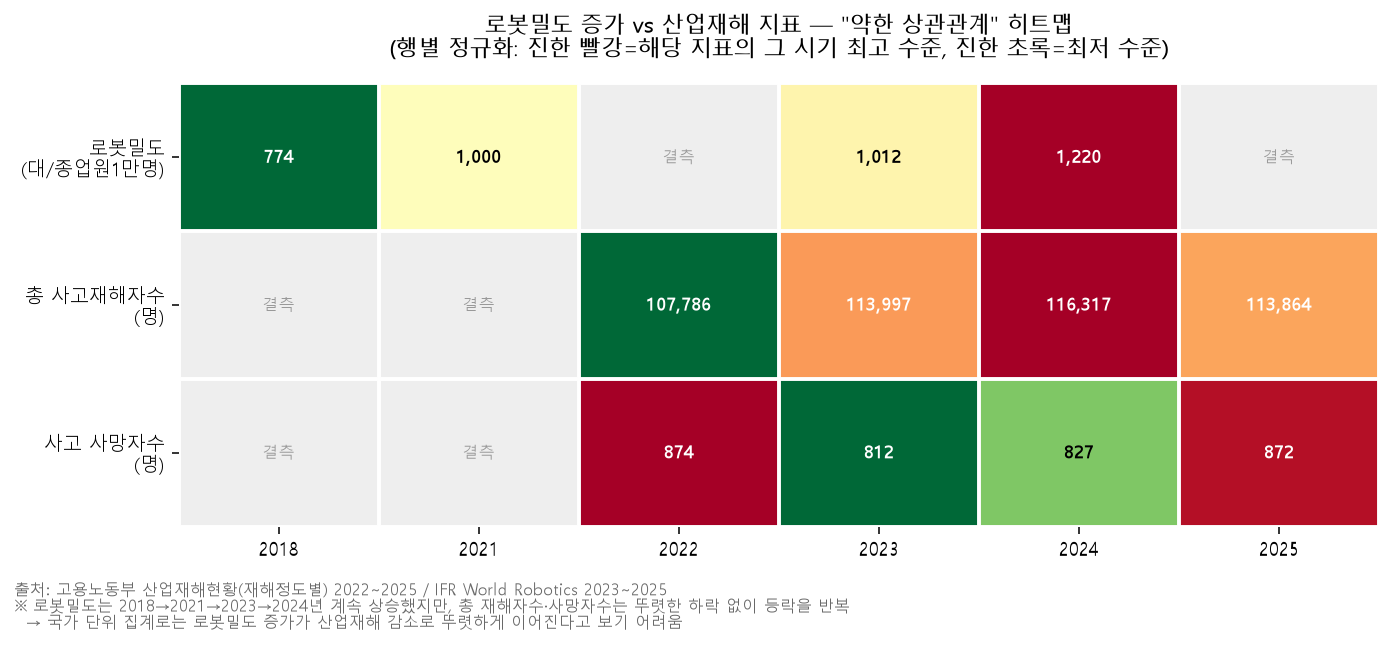
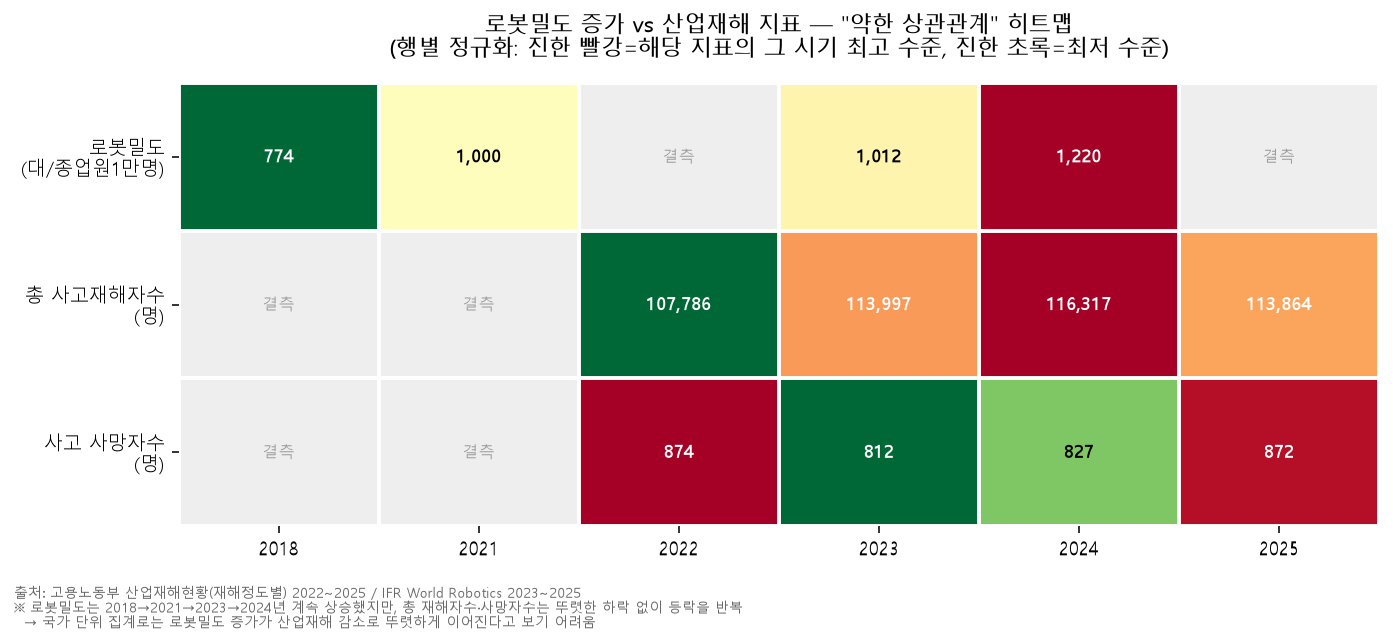
edit_title

diff --git a/src/visualizetwo.py b/src/visualizetwo.py
@@ -155,7 +155,7 @@ def make_chart1_robot_density_vs_accidents(data):
         if not np.isnan(v):
             ax2.text(x[i]+w/2, v+15, f'{int(v):,}', ha='center', fontsize=8, color='#DD8452')
 
-    ax1.set_title('로봇 투입(밀도) 증가 vs 산업재해자수 추이 (전산업 합계, 2018~2025)', fontsize=13, pad=15)
+    ax1.set_title('로봇 투입증가 vs 산업재해자수 추이 (전산업 합계)', fontsize=13, pad=15) # 제목 간략화
 
     lines1, labels1 = ax1.get_legend_handles_labels()
     lines2, labels2 = ax2.get_legend_handles_labels()
@@ -164,7 +164,7 @@ def make_chart1_robot_density_vs_accidents(data):
     fig.text(0.01, -0.03,
               f"출처: 고용노동부 산업재해현황(재해정도별) 2022~2025 / IFR World Robotics 2023~2025\n"
               f"※ 로봇밀도는 2018·2021·2023·2024년만 공개 수치가 존재(그 외 연도는 결측)",
-              fontsize=8, color='gray', ha='left')
+              fontsize=7, color='gray', ha='left')
 
     plt.tight_layout()
     out_path = os.path.join(OUT_DIR, '06_로봇_투입증가vs산업재해자수_추이.png')
@@ -234,7 +234,7 @@ def make_chart2_heatmap(data):
               "출처: 고용노동부 산업재해현황(재해정도별) 2022~2025 / IFR World Robotics 2023~2025\n"
               "※ 로봇밀도는 2018→2021→2023→2024년 계속 상승했지만, 총 재해자수·사망자수는 뚜렷한 하락 없이 등락을 반복\n"
               "  → 국가 단위 집계로는 로봇밀도 증가가 산업재해 감소로 뚜렷하게 이어진다고 보기 어려움",
-              fontsize=8.3, color='dimgray', ha='left')
+              fontsize=7, color='dimgray', ha='left')
 
     plt.tight_layout()
     out_path = os.path.join(OUT_DIR, '07_로봇밀도_증가vs산업재해_약한_상관관계.png')
@@ -306,9 +306,8 @@ def make_chart3_industry_hazard_types(data):
     )
 
     ax.set_title(
-        '제조업·건설업·운수·창고·통신업의 사고재해 발생형태\n'
-        '(2023~2025년 합산, K-NAVI 대응 대상 유형)',
-        fontsize=12.5,
+        '제조업·건설업·운수·창고·통신업의 사고재해 발생형태', # 제목 간략화, 폰트사이즈 변경
+        fontsize=15.5,
         pad=14
     )
 
@@ -328,7 +327,7 @@ def make_chart3_industry_hazard_types(data):
         -0.03,
         "출처: 고용노동부 산업재해현황(대업종별 발생형태) 2023~2025년 합산\n"
         "※ 제조업·건설업·운수·창고·통신업만 표시",
-        fontsize=8,
+        fontsize=7,
         color='gray',
         ha='left'
     )
@@ -387,7 +386,7 @@ def make_chart4_severity_trend(data):
         ax.text(x[i], 101, f"중대(6개월↑+사망) {severe:.1f}%", ha='center', fontsize=8.5, color='#a50f15')
 
     fig.text(0.01, -0.02, "출처: 고용노동부 산업재해현황(재해정도별) 2022~2025, 전산업 합계 기준",
-              fontsize=8, color='gray', ha='left')
+              fontsize=7, color='gray', ha='left')
 
     plt.tight_layout()
     out_path = os.path.join(OUT_DIR, '09_전산업_재해_치료기간_추이.png')
@@ -429,7 +428,7 @@ def make_chart5_target_share_trend(data):
     fig.text(0.01, -0.03,
               "출처: 고용노동부 산업재해현황(대업종별 발생형태) 2023~2025\n"
               "※ 비중(%) = (부딪힘+끼임+깔림·뒤집힘+사업장내교통사고) ÷ 해당 업종 전체 사고재해자수 × 100",
-              fontsize=8, color='gray', ha='left')
+              fontsize=7, color='gray', ha='left')
 
     plt.tight_layout()
     out_path = os.path.join(OUT_DIR, '08_업종별_대응유형_비중.png')
